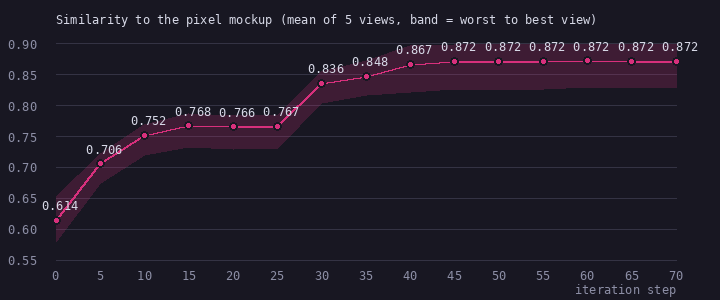
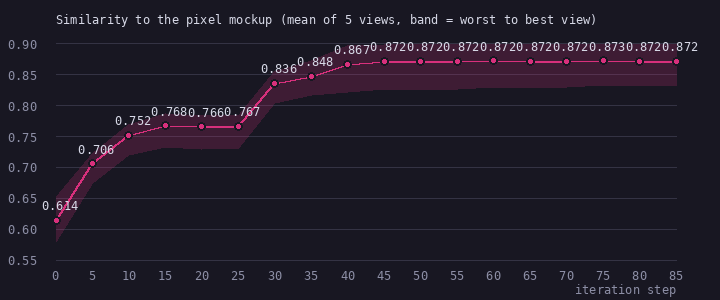
feat(juno): iteration steps 71-85, the jacket from every angle, region rule
The 3/4 zipper moves to where the chest front projects (open edge at +1,
shirt at +2 toward the facing side), the side-shading rule goes, the cuff
is a darker orange, the hem is painted after the zipper so it runs under
the opening, and a new `region` rule (first n columns of a part from an
anchored side, facing-aware) shades the torso's far flank in the 3/4 views.
The back chevron shows its near half from 3/4 behind. Similarity 0.872;
smoke test passes; all README media regenerated. Snapshots step-75/80/85.

Claude-Session: https://claude.ai/code/session_01Fv8yoVpx8AM9QtDidGMBtM

diff --git a/chargen/character.py b/chargen/character.py
@@ -288,6 +288,19 @@ def _rule_mask(rule: dict, f: Frame) -> np.ndarray:
             if 0 <= x < part.shape[1] and part[y, x]:
                 out[y, x] = True
         return out
+    if kind == "region":
+        # the first `n` pixels of every row from the anchored side ("left"/"right", or the
+        # facing's "front"/"back"): a panel of the part, e.g. the far flank of the torso
+        anchor = rule.get("anchor", "back")
+        if anchor in ("front", "back"):
+            anchor = "left" if (anchor == "front") == f.facing.endswith("_l") else "right"
+        out = np.zeros_like(part)
+        n = rule.get("n", 1)
+        for y in np.where(part.any(axis=1))[0][:rule.get("top")]:
+            xs = np.where(part[y])[0]
+            sel = xs[:n] if anchor == "left" else xs[-n:]
+            out[y, sel] = True
+        return out
     if kind == "band":
         # one row at fraction `at` (0 = top, 1 = bottom) of the part's vertical extent;
         # with `anchor` only one pixel of that row (placed like a stripe)

diff --git a/README.md b/README.md
@@ -69,7 +69,7 @@ flowchart LR
 | 2 | [Teaching the AI anatomy](#2--teaching-the-ai-anatomy) | Labeling every pixel of every frame with the body part it belongs to |
 | 3 | [Pixels as text](#3--pixels-as-text) | Why every image here is also a text file |
 | 4 | [Dressing the mannequin](#4--dressing-the-mannequin) | A character is a recipe that renders onto all frames at once |
-| 5 | [Closing the gap](#5--closing-the-gap) | 70 rounds against the mockup: where it stopped paying off, what got it moving again, where it converged, and what the score never saw |
+| 5 | [Closing the gap](#5--closing-the-gap) | 85 rounds against the mockup: where it stopped paying off, what got it moving again, where it converged, and what the score never saw |
 | 6 | [Debugging in plain text](#6--debugging-in-plain-text) | Bugs tracked down with a query and fixed with a few characters |
 | 7 | [Variations for free](#7--variations-for-free) | A new colorway is a ten-line file |
 | 8 | [The AI picks up the pencil](#8--the-ai-picks-up-the-pencil) | Why concept art can't just be shrunk into pixel art |
@@ -239,7 +239,7 @@ flowchart LR
 Every five steps the recipe was saved to `characters/juno/history/step-NN.toml`, so each stage of the progression is
 rebuilt from source like every other image here:
 
-<p align="center"><img src="docs/images/juno-iteration.png" alt="Pixel mockup, then Juno after every fifth iteration step from 0 to 70, in five views" width="920"></p>
+<p align="center"><img src="docs/images/juno-iteration.png" alt="Pixel mockup, then Juno after every fifth iteration step from 0 to 85, in five views" width="920"></p>
 
 <p align="center"><img src="docs/images/juno-iteration-heads.png" alt="Head close-ups (front, profile, back) across the same steps" width="920"></p>
 
@@ -259,7 +259,7 @@ The similarity score is deliberately coarse. It lets every opaque pixel look for
 in the other image, so it forgives one-pixel drift but not a wrong shape or color. A perfect 1.0 is out of reach for
 reasons explained below.
 
-<p align="center"><img src="docs/images/juno-similarity.png" alt="Similarity to the mockup per saved step: 0.614, 0.706, 0.752, 0.768, 0.766, 0.767, then 0.836, 0.848, 0.867, then flat at 0.872 from step 45 to 70" width="720"></p>
+<p align="center"><img src="docs/images/juno-similarity.png" alt="Similarity to the mockup per saved step: 0.614, 0.706, 0.752, 0.768, 0.766, 0.767, then 0.836, 0.848, 0.867, then flat around 0.872 from step 45 to 85" width="720"></p>
 
 The first 25 steps show the returns diminishing. Shape (steps 1–5) and color (6–10) were the big wins. After step 15
 the score was flat, and it's worth looking at why, because most of the remaining gap can't be closed by iterating the
@@ -312,7 +312,9 @@ Some details needed new capabilities in the generator, and the agent added them 
   on her back;
 - `[outline] keep` lists the head-grid colors that keep their own color on the silhouette (the ear, the hair outline);
 - a `grow` rule pushes a body part's outline outward into empty pixels (the sneakers are a pixel wider than the
-  template's feet on both sides), the only rule that changes the silhouette.
+  template's feet on both sides), the only rule that changes the silhouette;
+- a `region` rule selects the first n columns of a part from one side, the facing's front or back included, so the
+  torso's far flank can be a shade darker in the 3/4 views.
 
 All of these are opt-in, so the earlier snapshots still render exactly as they did.
 
@@ -370,6 +372,15 @@ collar bent because it was an *edge* against the neck, and the neck's boundary i
 straight top row, notched open by the zipper. The shoes needed something no rule could do: change the silhouette.
 A new `grow` rule pushes a part's outline outward, and the sneakers are three pixels wide instead of two. The score
 did not move. It was never looking there.
+
+A fifth run (71–85) went after the jacket from the angles the mockup barely shows. The 3/4 views were the worst:
+the zipper sat on the torso's centre column, next to the template's own shade column, so a five-pixel-wide torso
+showed four colours in a row; the sleeve cuff and the hem, both orange and one row apart, merged into a stepped band;
+a side-shading rule added dark columns beside every sleeve. The fix was mostly geometry: the chest front projects
+toward the facing side, so the open edge moved there; the hem is painted after the zipper so it runs under the
+opening; the cuff is a darker orange; the shading rule went. A `region` rule (the first n columns of a part from
+its front or back) shades the far flank in the 3/4 views, and the back chevron shows its near half from 3/4 behind.
+The turn-around now reads as one jacket seen from eight sides.
 
 ## 6 · Debugging in plain text
 

diff --git a/characters/juno/history/NOTES.md b/characters/juno/history/NOTES.md
@@ -100,3 +100,24 @@ collar bends. The shoes are too small."
 | 69 | final animation pass | 0.872 |
 | 70 | snapshot | 0.872 |
 
+## Fifth run (steps 71–85): the jacket from every angle
+
+"Focus on the jacket, especially from other angles than the front. The rotation does not seem well
+handled, and most diagonal and side angles look broken."
+
+| step | change | similarity |
+|---|---|---|
+| 71 | 3/4 zipper where the chest front projects: the open edge at +1 and the shirt at +2 from the torso's centre, toward the facing side (it sat on the centre column, next to the template's own shade column: five columns, four colours) | 0.873 |
+| 72 | the `edge torso touching arms → shade` rule dropped: the template already shades the flank, the rule only added dark columns beside every sleeve | 0.873 |
+| 73 | sleeve cuff in the darker orange, so it no longer merges with the hem where the hand hangs beside it (3/4 and 3/4-back) | 0.873 |
+| 74 | hem painted after the zipper: one continuous band under the opening, instead of the shirt column cutting its far end | 0.873 |
+| 75 | new rule type `region`: the first `n` columns of a part from an anchored side (`left`/`right`, or the facing's `front`/`back`), per row. The torso's far flank is one shade darker in the 3/4 views; snapshot | 0.873 |
+| 76 | the back chevron's near half shows from 3/4 behind (bands shifted toward the back-facing side) | 0.873 |
+| 77 | turn-around and 3/4 walks at 10×: the zipper, collar, hem and cuff now progress coherently through the eight facings | 0.873 |
+| 78 | jump, attack and interact at 8× in the angled views | 0.873 |
+| 79 | playground smoke test | 0.873 |
+| 80 | snapshot | 0.873 |
+| 81 | README and notes | 0.873 |
+| 82 | all README media regenerated | 0.873 |
+| 83–85 | final pass; snapshot | 0.873 |
+
